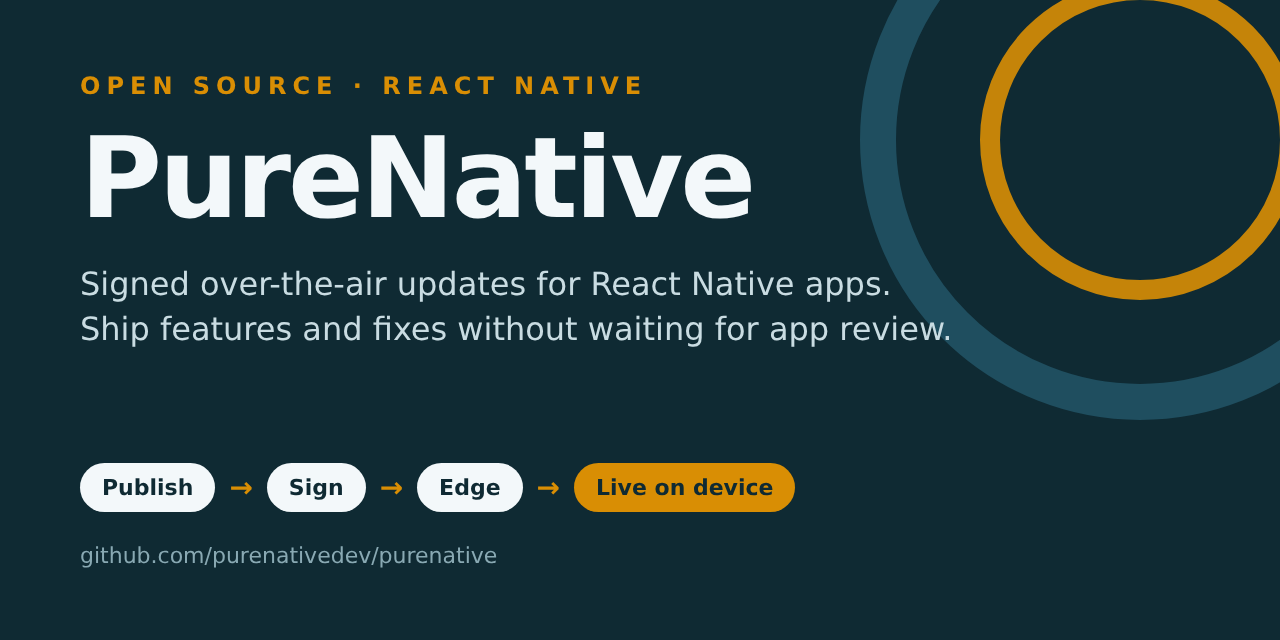
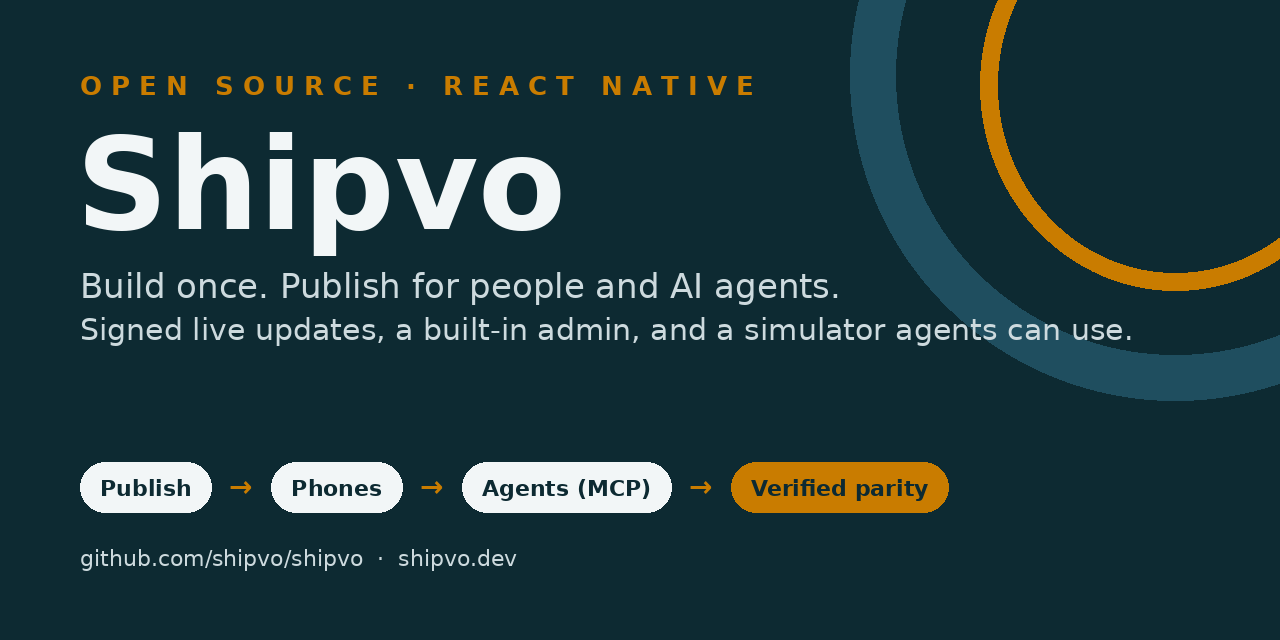
Shipvo: repo links to github.com/shipvo/shipvo, new social preview card [no-ota]
Claude-Session: https://claude.ai/code/session_01LTgbvpgKU73KaM89k8FAMu

diff --git a/README.md b/README.md
@@ -10,8 +10,8 @@ Three pillars:
 2. **Simulate.** `@shipvo/mcp` opens any Shipvo app for an agent: accessibility tree with refs, tap/type/scroll/back, screenshots. `@shipvo/device` gives apps one device API, real on phones and simulated in the simulator, with Android- and iOS-worded system sheets the agent answers like a person. Simulation is explicit: every simulated event is logged as simulated and no simulated payment or fingerprint is ever presented as real.
 3. **Verify.** The parity harness runs the same flows on the simulator, an Android emulator and an iPhone simulator and compares every screen. Current result: 100% matching controls on both platforms across two purchase flows (`docs/parity-results.md`).
 
-[![CI](https://github.com/purenativedev/purenative/actions/workflows/ci.yml/badge.svg)](https://github.com/purenativedev/purenative/actions/workflows/ci.yml)
-[![Deploy](https://github.com/purenativedev/purenative/actions/workflows/deploy-control-plane.yml/badge.svg)](https://github.com/purenativedev/purenative/actions/workflows/deploy-control-plane.yml)
+[![CI](https://github.com/shipvo/shipvo/actions/workflows/ci.yml/badge.svg)](https://github.com/shipvo/shipvo/actions/workflows/ci.yml)
+[![Deploy](https://github.com/shipvo/shipvo/actions/workflows/deploy-control-plane.yml/badge.svg)](https://github.com/shipvo/shipvo/actions/workflows/deploy-control-plane.yml)
 [![License: Apache-2.0](https://img.shields.io/badge/license-Apache--2.0-blue.svg)](LICENSE)
 ![Status: pre-launch](https://img.shields.io/badge/status-pre--launch-orange)
 
@@ -69,7 +69,7 @@ Telemetry                   POST /t → D1
 
 ## Try the sample app
 
-1. Download the latest `tide-and-tackle-shell.apk` from [Releases](https://github.com/purenativedev/purenative/releases) and install it on an Android 7+ phone.
+1. Download the latest `tide-and-tackle-shell.apk` from [Releases](https://github.com/shipvo/shipvo/releases) and install it on an Android 7+ phone.
 2. Edit `apps/tide-and-tackle/src/release.ts` and push to `main`. The `publish-ota` workflow signs and publishes the release.
 3. The app checks every 10 seconds while open, verifies the update, applies it, and logs the timings on screen.
 

diff --git a/SECURITY.md b/SECURITY.md
@@ -2,6 +2,6 @@
 
 Shipvo delivers code to devices, so signing and verification bugs are treated as critical.
 
-**Report a vulnerability** privately through GitHub's [private vulnerability reporting](https://github.com/purenativedev/purenative/security/advisories/new). Don't open a public issue. We aim to acknowledge reports within 72 hours.
+**Report a vulnerability** privately through GitHub's [private vulnerability reporting](https://github.com/shipvo/shipvo/security/advisories/new). Don't open a public issue. We aim to acknowledge reports within 72 hours.
 
 In scope: signature or hash verification bypass, pointer or bundle substitution, rollback or crash-loop guard bypass, control-plane authentication, and secrets exposure in workflows.

diff --git a/packages/schema/README.md b/packages/schema/README.md
@@ -1,5 +1,5 @@
 # @shipvo/schema
 
-Zod schemas and types for [Shipvo](https://github.com/purenativedev/purenative): shell manifest, add-on manifest, release pointer, signed envelope, gate report, change log and telemetry. Includes `canonicalize()` for signing and `bandForCohort()` for staged rollouts.
+Zod schemas and types for [Shipvo](https://github.com/shipvo/shipvo): shell manifest, add-on manifest, release pointer, signed envelope, gate report, change log and telemetry. Includes `canonicalize()` for signing and `bandForCohort()` for staged rollouts.
 
 License: Apache-2.0

diff --git a/packages/cli/README.md b/packages/cli/README.md
@@ -1,6 +1,6 @@
 # @shipvo/cli
 
-Command-line tools for [Shipvo](https://github.com/purenativedev/purenative), the open-source React Native framework for signed over-the-air updates.
+Command-line tools for [Shipvo](https://github.com/shipvo/shipvo), the open-source React Native framework for signed over-the-air updates.
 
 ```bash
 npx @shipvo/cli keygen --out seed.txt   # Ed25519 release signing key
